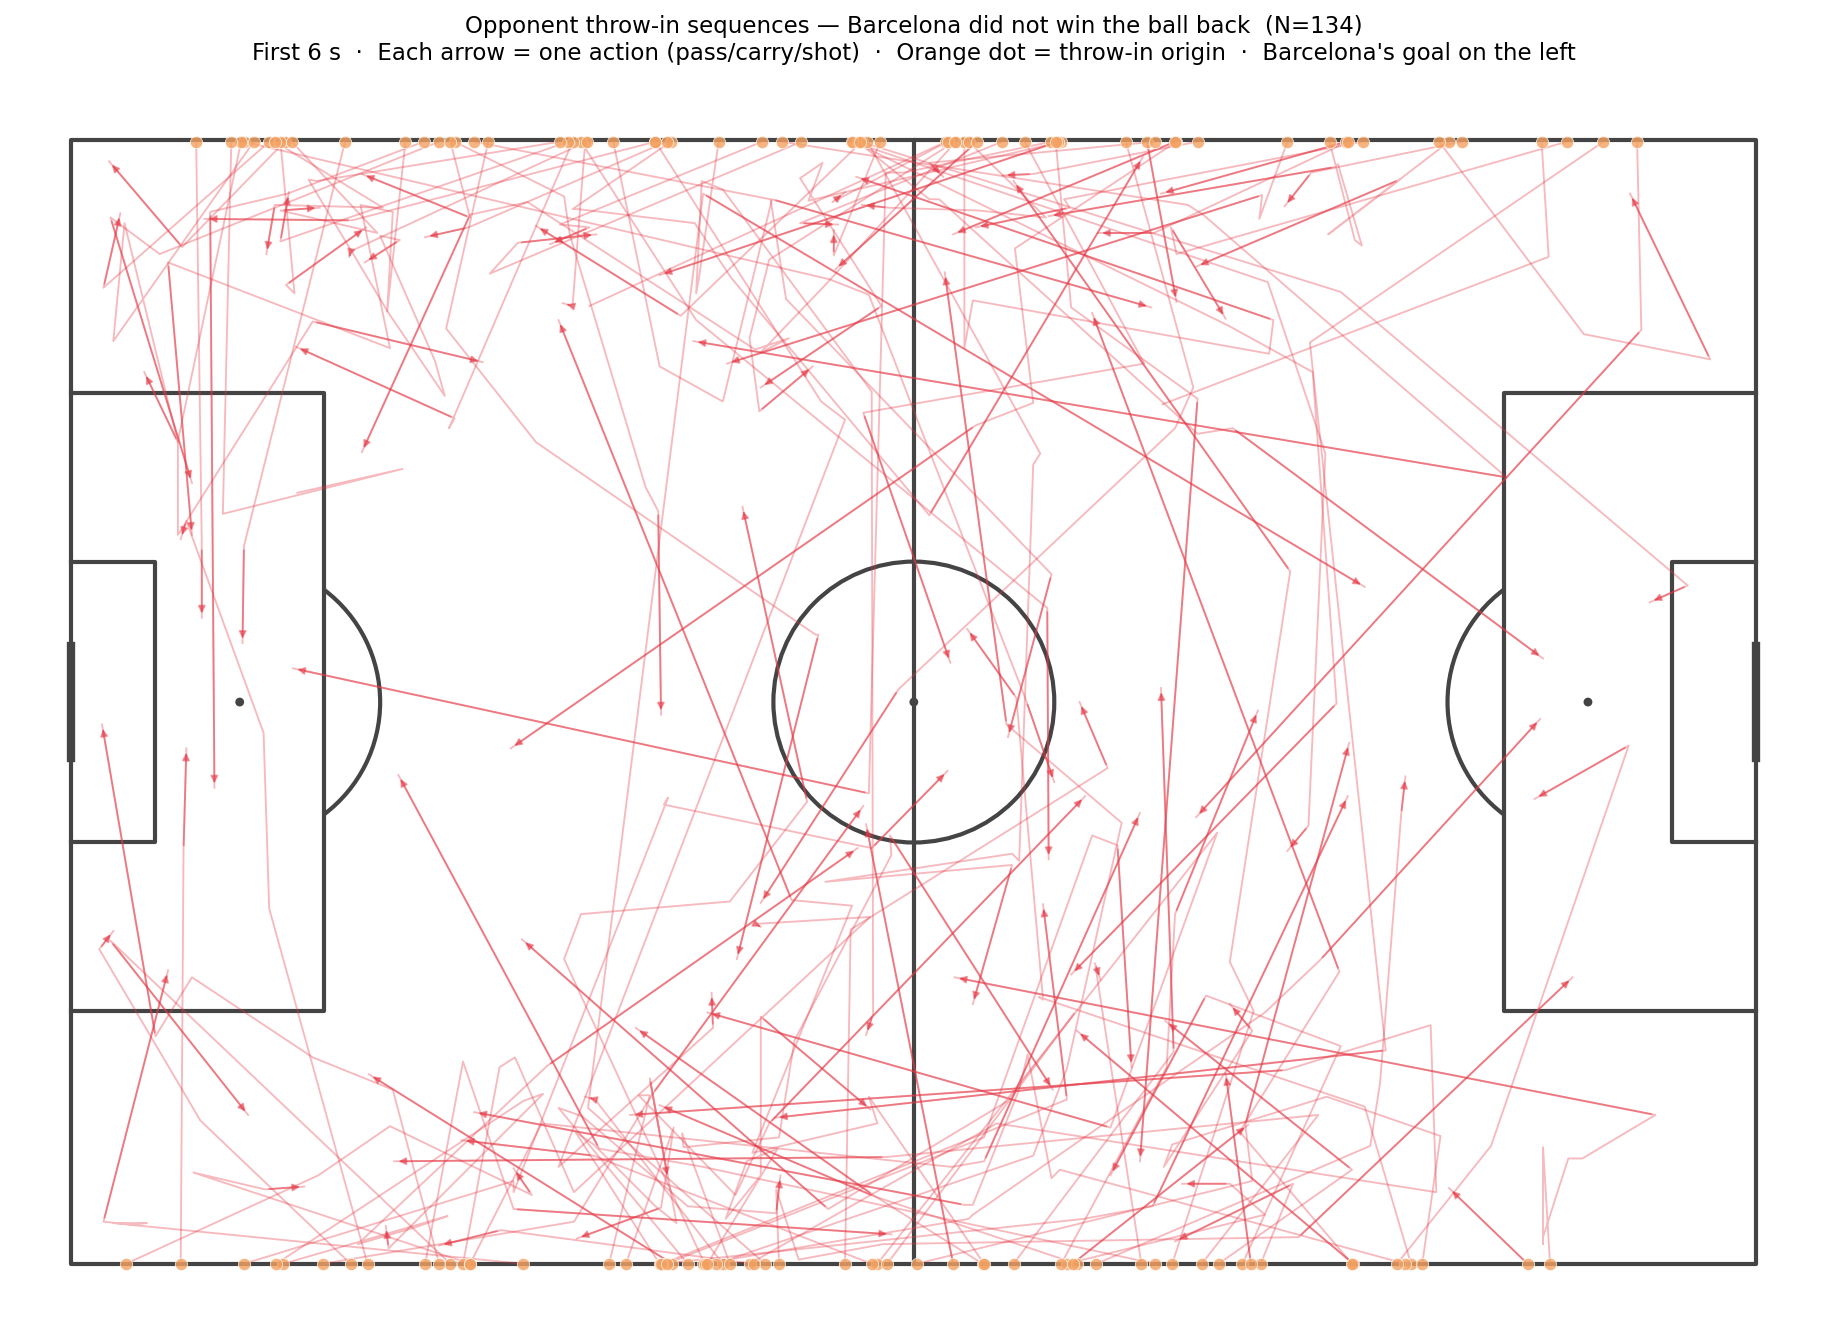
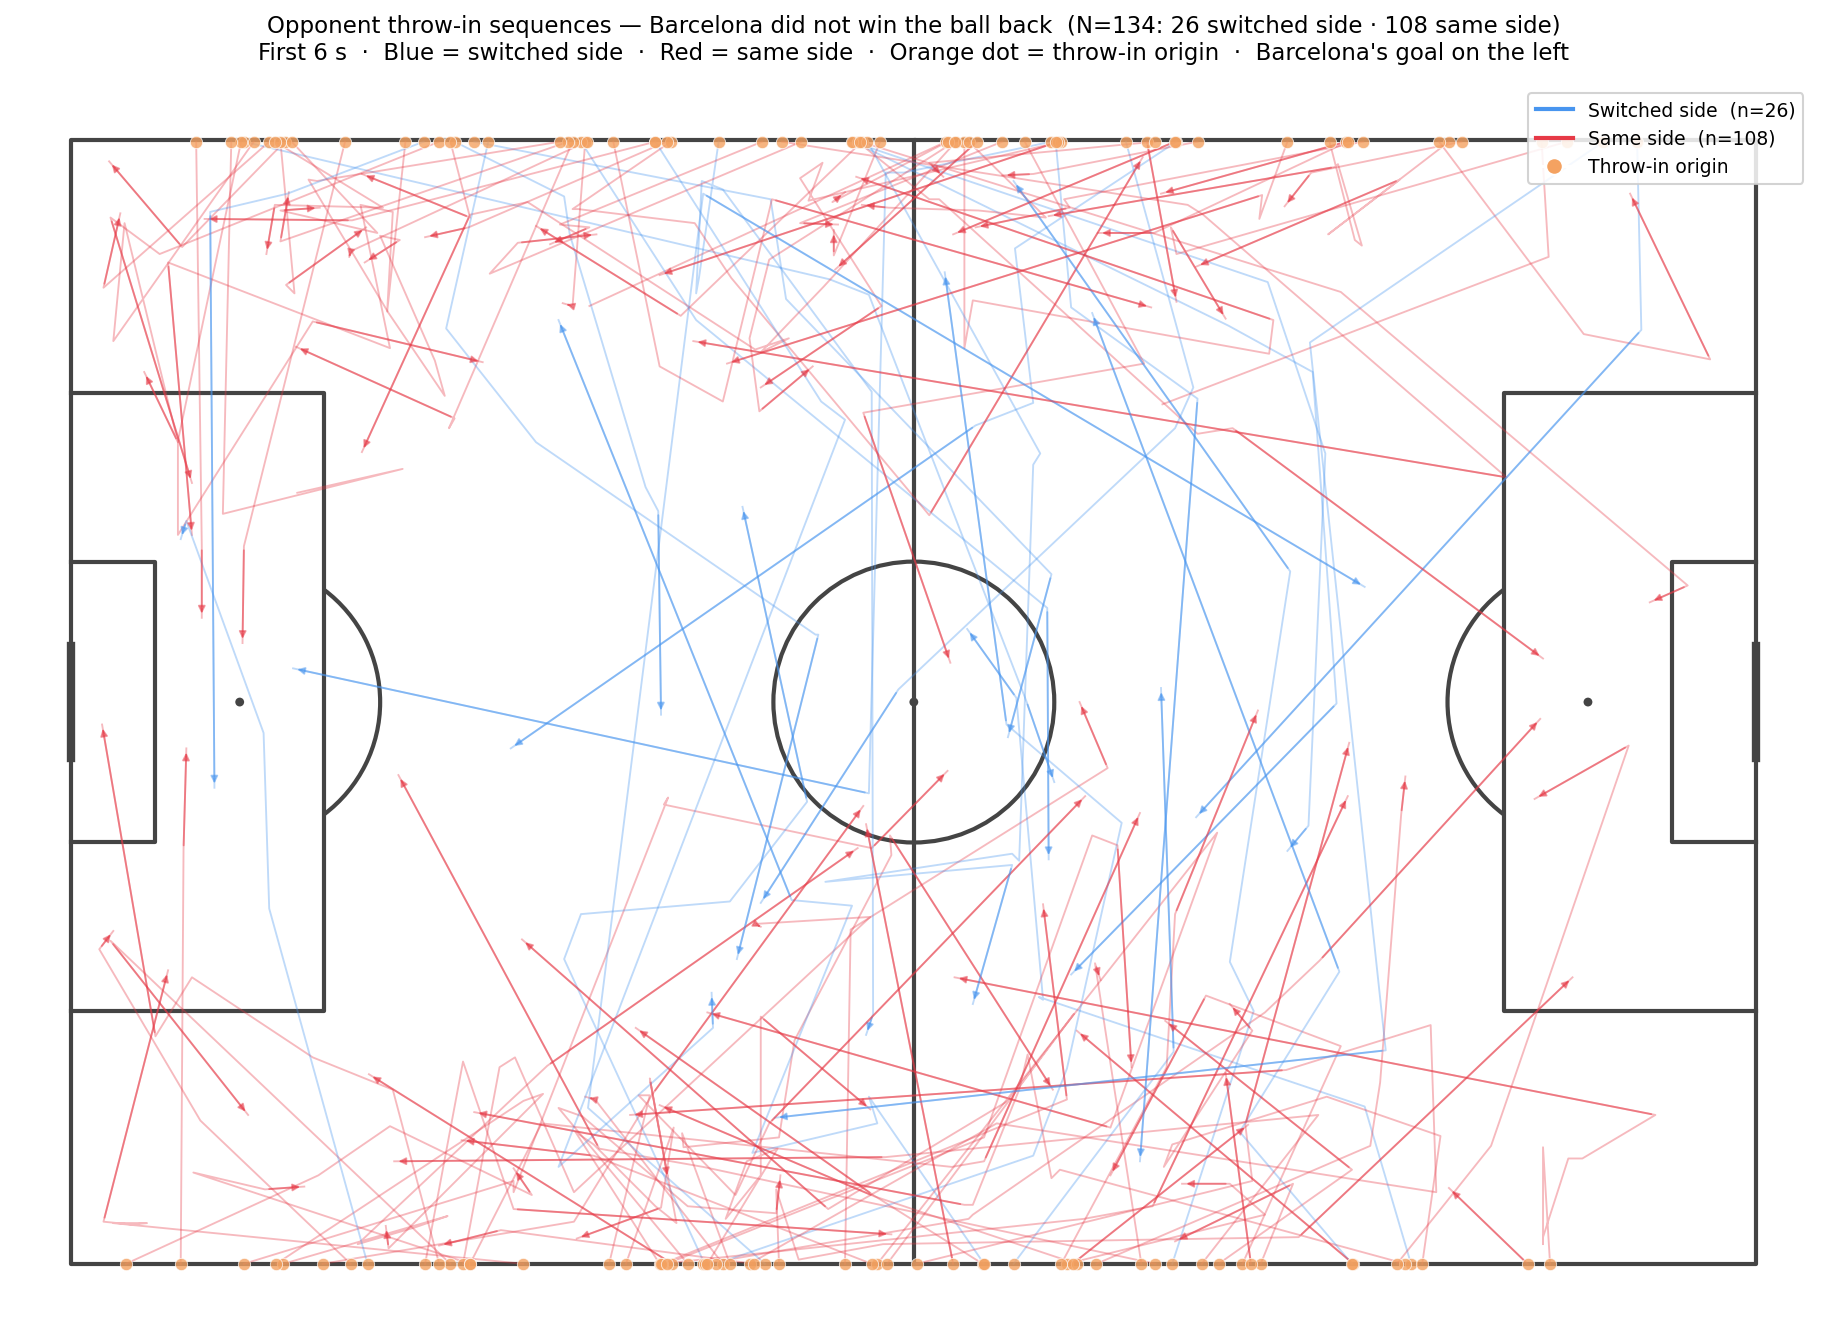
some points for defense analysis added; updated a def_throwins plot

diff --git a/src/throwins/def_throwins/throwins_defense.py b/src/throwins/def_throwins/throwins_defense.py
@@ -489,20 +489,45 @@ def collect_lost_sequences(max_seconds: float = 6.0) -> list[list[tuple[float, f
     return chains
 
 
+_PITCH_WIDTH_HALF = 40.0    # y = 40 is the centre line width-wise
+
+
+def _changed_side(path: list[tuple[float, float]]) -> bool:
+    """True if any waypoint after the throw-in crosses to the opposite y-half.
+
+    A throw-in originates on a touchline (y ≈ 0 or y ≈ 80).  The sequence
+    'changed the side' when the ball at any point crosses the y = 40 midline
+    relative to the throw-in origin.
+    """
+    origin_bottom = path[0][1] < _PITCH_WIDTH_HALF
+    return any((p[1] < _PITCH_WIDTH_HALF) != origin_bottom for p in path[1:])
+
+
 def plot_lost_sequences(chains: list[list[tuple[float, float]]], max_seconds: float = 6.0, save: bool = True) -> None:
     """Full-pitch path plot of opponent throw-in sequences where Barcelona did not win the ball.
 
     Each chain is a single continuous polyline (pass + carry waypoints).
+    Blue  = sequence switched side (crossed y = 40 midline).
+    Red   = sequence stayed on the same side.
     An arrowhead marks the final point. Barcelona's goal is on the left (x = 0).
     """
+    from matplotlib.lines import Line2D
+
+    COLOR_SWITCH  = "#4895ef"   # blue  — changed side
+    COLOR_STAY    = "#e63946"   # red   — same side
+
+    n_switch = sum(1 for path in chains if _changed_side(path))
+    n_stay   = len(chains) - n_switch
+
     pitch = Pitch(pitch_type="statsbomb", pitch_color="white", line_color="#444444")
     fig, ax = pitch.draw(figsize=(14, 9))
 
     for path in chains:
+        color = COLOR_SWITCH if _changed_side(path) else COLOR_STAY
         xs = [p[0] for p in path]
         ys = [p[1] for p in path]
 
-        ax.plot(xs, ys, color="#e63946", lw=0.9, alpha=0.35, zorder=2)
+        ax.plot(xs, ys, color=color, lw=0.9, alpha=0.35, zorder=2)
 
         # Arrowhead at the final segment
         if len(path) >= 2:
@@ -511,7 +536,7 @@ def plot_lost_sequences(chains: list[list[tuple[float, float]]], max_seconds: fl
                 xy=path[-1],
                 xytext=path[-2],
                 arrowprops=dict(
-                    arrowstyle="-|>", color="#e63946",
+                    arrowstyle="-|>", color=color,
                     lw=0.9, alpha=0.5, mutation_scale=7,
                 ),
                 zorder=3,
@@ -524,9 +549,18 @@ def plot_lost_sequences(chains: list[list[tuple[float, float]]], max_seconds: fl
             s=35, zorder=4, alpha=0.8,
         )
 
+    legend_handles = [
+        Line2D([0], [0], color=COLOR_SWITCH, lw=2, label=f"Switched side  (n={n_switch})"),
+        Line2D([0], [0], color=COLOR_STAY,   lw=2, label=f"Same side  (n={n_stay})"),
+        Line2D([0], [0], marker="o", color="w", markerfacecolor="#f4a261",
+               markersize=8, label="Throw-in origin"),
+    ]
+    ax.legend(handles=legend_handles, loc="upper right", fontsize=9, framealpha=0.85)
+
     ax.set_title(
-        f"Opponent throw-in sequences — Barcelona did not win the ball back  (N={len(chains)})\n"
-        f"First {max_seconds:.0f} s  ·  Each arrow = one action (pass/carry/shot)  "
+        f"Opponent throw-in sequences — Barcelona did not win the ball back  "
+        f"(N={len(chains)}: {n_switch} switched side · {n_stay} same side)\n"
+        f"First {max_seconds:.0f} s  ·  Blue = switched side  ·  Red = same side  "
         "·  Orange dot = throw-in origin  ·  Barcelona's goal on the left",
         fontsize=11, pad=12, color="black",
     )

diff --git a/wiki/BAR-SP/defense.md b/wiki/BAR-SP/defense.md
@@ -73,3 +73,24 @@ The code is a very slightly modified version of Leverkusen's snippet $3206.
 - Some kind of convex hull/voronoi pitch control
 - Look at how Barcelona can leverages defensive free-kicks to create counter-attacks
 - Look at how free-kick tactics vary in different match phases/when Barcelona is in the lead
+
+## Defensive throw ins 
+
+TODO: Decide which plots should be used and write a text
+
+Concentrate on playstile with closed middle coridor 
+
+- Barcelona is strong in defending throwins (winback rate 31,3% 5fth in league) <throwins_defense_comparison.png>
+- Barcelona tries to block the field including the middle coridor and create preassure near the throw in ; Middle coridor is clearly blocked in defending zone , in central and attacking zone there are still player (green dot) <throwins_defense_positioning.png>
+- I do not know if we should use <throwins_defense_corridor_comparison> due to small n and it is not that extreme to say something strong (>50% still)
+- Much more winbacks in the middle coridor <throwins_defense_corridor_winback> , but isnt it obvious true for most of the teams ? 
+- Most lost sequences did not change the side in first 6 sec. showing Barcelona cuting of the middle <throwins_defense_lost_sequences>
+- <throwins_defense_scatter.png> does not really support anuything said before
+- Barcelona clearly can pressure more in defense -> higher winback rate ; helpfull? <throwins_defense_zone_stats.png>
+
+## Defensive penalties
+
+TODO: same as for throw ins 
+
+- very high possesion and save gamestile in own third leads to very few opportunities for the opponent to get a penalty (only one). 
+(Concentrate on high possession rather on penalty itself)
